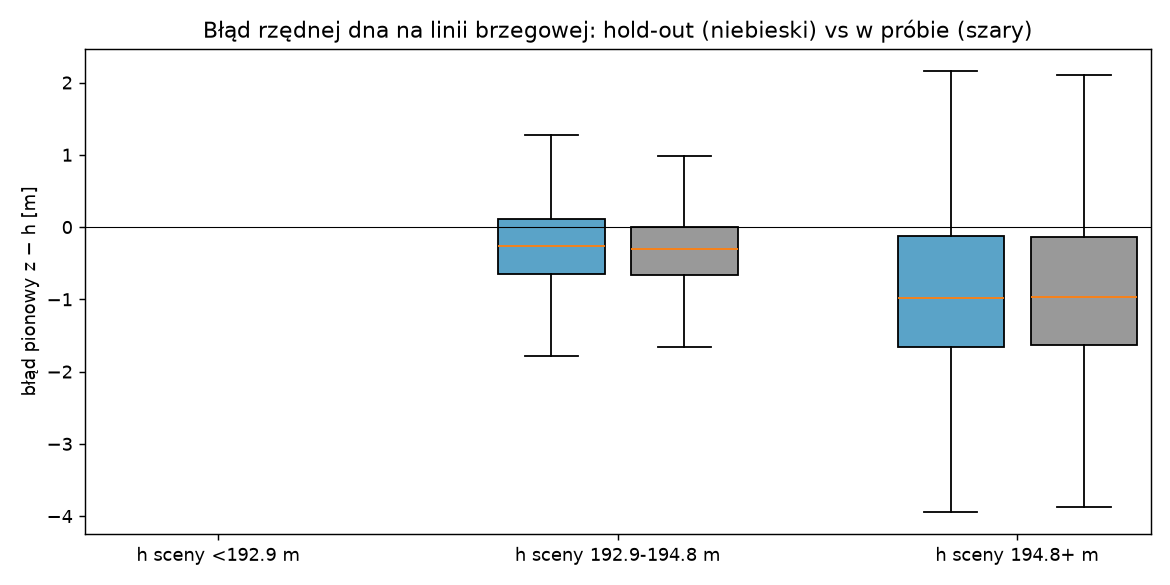
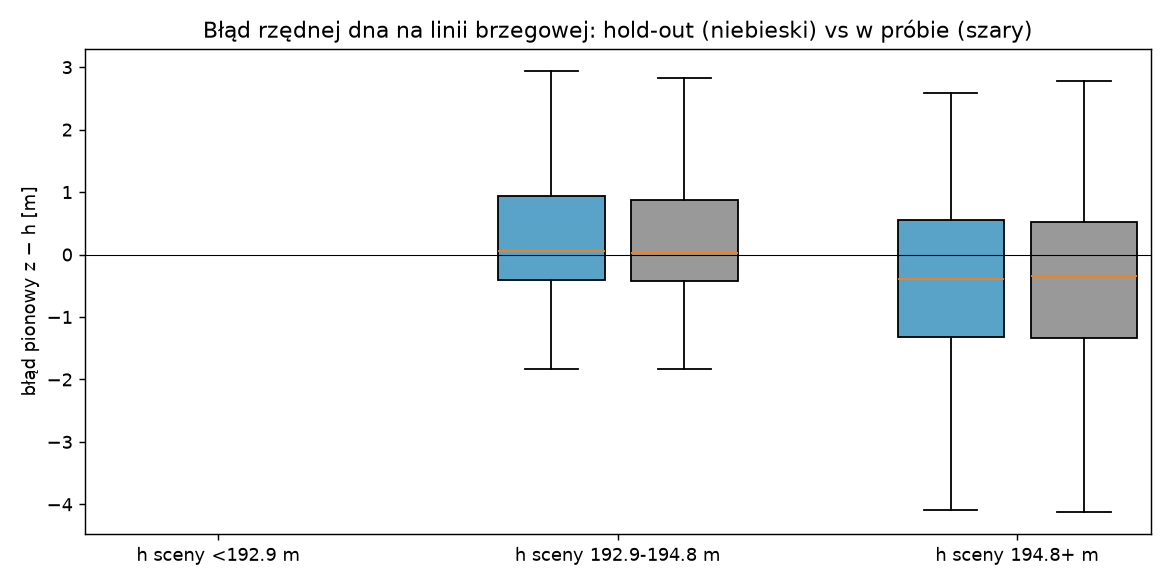
eval: two-sided edge pixels for hold-out vertical error

diff --git a/JezioroNyskie/pipeline/12_holdout.py b/JezioroNyskie/pipeline/12_holdout.py
@@ -33,7 +33,9 @@ log = logging.getLogger("12")
 IMG = Path(__file__).resolve().parents[1] / "docs" / "img"
 PERIODS = {"2020-2023": (2020, 2023), "2024": (2024, 2024), "2025-2026": (2025, 2026)}
 METHOD = ("Roczny hold-out: dla każdego roku 2020-2026 model dna z scen pozostałych lat; test = sceny z poziomem z "
-          "pomiaru (B/R). Błąd pionowy = z − h na pikselach brzegowych sceny (4-sąsiedztwo lądu), IoU wody i odległość "
+          "pomiaru (B/R). Błąd pionowy = z − h na pikselach brzegowych sceny po obu stronach linii (woda z sąsiadem lądu "
+          "i ląd z sąsiadem wody; prawdziwe dno przecina h między nimi, jedna strona dawałaby obciążenie; strony osobno w "
+          "`vertical_by_side`), IoU wody i odległość "
           "linii brzegowych względem obserwacji RF∧Otsu. In-sample = serwowany model `all` na tych samych scenach.")
 LEAKAGE = ("RF i krzywa C (poziomy wariantu C) nie są trenowane od nowa na foldach: maski scen i poziomy treningowe "
            "pochodzą z potoku, który widział też scenę testową, więc hold-out jest optymistyczny w tym zakresie.")
@@ -46,13 +48,19 @@ def load_ev(sel, aoi):
     return bottom.combine_evidence(rf_s, ot_s)
 
 
-def scene_record(model, ev_i, h, zone, lake_zone, transform, shore):
-    """Metryki jednej sceny dla modelu `model` (fałdy albo serwowany)."""
-    ve = holdout.vertical_errors(model, shore, h)
+def scene_record(model, ev_i, h, zone, lake_zone, transform):
+    """Metryki jednej sceny dla modelu `model` (fałdy albo serwowany).
+
+    Błąd pionowy na pikselach brzegowych obu stron (woda i ląd); `err_water`/`err_land` to diagnostyka stron osobno.
+    """
+    ve = holdout.vertical_errors(model, holdout.shore_pixels(ev_i, "both"), h)
+    vw = holdout.vertical_errors(model, holdout.shore_pixels(ev_i, "water"), h)
+    vl = holdout.vertical_errors(model, holdout.shore_pixels(ev_i, "land"), h)
     pred, unc = holdout.predict_water(model, h)
     valid = zone & (ev_i != 255)
     sd = holdout.shoreline_distance(pred, ev_i, transform)
-    return {"n_shore": ve["n_shore"], "err": ve["err"], "in_bounds": ve["in_bounds"],
+    return {"side": {"water": vw, "land": vl},
+            "n_shore": ve["n_shore"], "err": ve["err"], "in_bounds": ve["in_bounds"],
             "iou_zone": holdout.iou(pred, ev_i, zone), "iou_lake": holdout.iou(pred, ev_i, lake_zone),
             "share_uncertain": float(unc[valid].mean()) if valid.any() else float("nan"),
             "shore_dist_median": sd["median"], "shore_dist_p90": sd["p90"]}
@@ -114,16 +122,26 @@ def main() -> int:
         res = bottom.compute_bounds(ev[f.train], h[f.train], sig[f.train], is_c=is_c[f.train], k_sigma=1.0)
         log.info("fold %d: train %d, test %d (%.0f s)", f.year, len(f.train), len(f.test), time.time() - t0)
         for i in f.test:
-            shore = holdout.shore_pixels(ev[i])
-            rec_h[i] = scene_record(res, ev[i], float(h[i]), zone, aoi, grid.transform, shore)
-            rec_s[i] = scene_record(served, ev[i], float(h[i]), zone, aoi, grid.transform, shore)
+            rec_h[i] = scene_record(res, ev[i], float(h[i]), zone, aoi, grid.transform)
+            rec_s[i] = scene_record(served, ev[i], float(h[i]), zone, aoi, grid.transform)
         del res
     test_idx = [i for i in range(n) if rec_h[i] is not None]
     rh, rs = [rec_h[i] for i in test_idx], [rec_s[i] for i in test_idx]
     ah, as_ = holdout.aggregate(rh), holdout.aggregate(rs)
 
-    def block(a):
-        return {k: a[k] for k in ("vertical", "iou_zone", "iou_lake", "share_uncertain", "shore_dist_m")}
+    def by_side(recs):
+        out = {}
+        for sd in ("water", "land"):
+            ok = [r["side"][sd] for r in recs]
+            err = np.concatenate([o["err"] for o in ok])
+            ib = np.concatenate([o["in_bounds"] for o in ok])
+            out[sd] = holdout.summarize(err, ib, int(sum(o["n_shore"] for o in ok)))
+        return out
+
+    def block(a, recs):
+        b = {k: a[k] for k in ("vertical", "iou_zone", "iou_lake", "share_uncertain", "shore_dist_m")}
+        b["vertical_by_side"] = by_side(recs)
+        return b
 
     yrs = year_of[test_idx]
     by_fold = {}
@@ -144,7 +162,7 @@ def main() -> int:
                       "in_sample_vertical": s["vertical"] if s["vertical"]["n"] else {"n": 0}}
 
     out = {"method": METHOD, "leakage_note": LEAKAGE, "n_folds": len(folds), "n_test_scenes": ah["n_test_scenes"],
-           "n_skipped": ah["n_skipped"], "holdout": block(ah), "in_sample": block(as_), "by_fold": by_fold,
+           "n_skipped": ah["n_skipped"], "holdout": block(ah, rh), "in_sample": block(as_, rs), "by_fold": by_fold,
            "by_period": by_period, "by_band": by_band}
     path = proc / "eval" / "holdout.json"
     path.parent.mkdir(parents=True, exist_ok=True)

diff --git a/JezioroNyskie/pipeline/mielizna/holdout.py b/JezioroNyskie/pipeline/mielizna/holdout.py
@@ -43,15 +43,27 @@ def year_folds(sel: pd.DataFrame, years=range(2020, 2027), test_methods=("B", "R
     return folds
 
 
-def shore_pixels(ev: np.ndarray) -> np.ndarray:
-    """Piksele wody (1) mające co najmniej jednego 4-sąsiada lądu (0); 255 nie jest lądem, skośni sąsiedzi się nie liczą."""
-    land = ev == 0
-    nb = np.zeros(ev.shape, bool)
-    nb[1:, :] |= land[:-1, :]
-    nb[:-1, :] |= land[1:, :]
-    nb[:, 1:] |= land[:, :-1]
-    nb[:, :-1] |= land[:, 1:]
-    return (ev == 1) & nb
+def shore_pixels(ev: np.ndarray, side: str = "both") -> np.ndarray:
+    """Piksele brzegowe: woda z 4-sąsiadem lądu (`water`), ląd z 4-sąsiadem wody (`land`) albo suma (`both`, domyślnie).
+
+    Dlaczego tak: prawdziwe dno przecina poziom h między tymi dwoma pikselami, więc sam piksel wody dowodzi tylko, że dno
+      < h (z leży poniżej h, błąd obciążony o pół odstępu poziomów). Zebranie obu stron daje referencję ≈ h średnio.
+    255 nie jest ani wodą, ani lądem; skośni sąsiedzi się nie liczą.
+    """
+    if side not in ("water", "land", "both"):
+        raise ValueError(f"side: {side!r}")
+
+    def near(target):
+        nb = np.zeros(ev.shape, bool)
+        nb[1:, :] |= target[:-1, :]
+        nb[:-1, :] |= target[1:, :]
+        nb[:, 1:] |= target[:, :-1]
+        nb[:, :-1] |= target[:, 1:]
+        return nb
+
+    water = (ev == 1) & near(ev == 0)
+    land = (ev == 0) & near(ev == 1)
+    return water if side == "water" else land if side == "land" else water | land
 
 
 def predict_water(model: dict, h: float) -> tuple[np.ndarray, np.ndarray]:

diff --git a/JezioroNyskie/pipeline/tests/test_holdout.py b/JezioroNyskie/pipeline/tests/test_holdout.py
@@ -24,7 +24,7 @@ def test_year_folds_split():
 
 def test_shore_pixels_4_neighbours():
     ev = np.array([[1, 1, 0], [1, 1, 255]], "uint8")
-    assert holdout.shore_pixels(ev).tolist() == [[False, True, False], [False, False, False]]
+    assert holdout.shore_pixels(ev, side="water").tolist() == [[False, True, False], [False, False, False]]
 
 
 def test_predict_water_rules():
@@ -111,3 +111,12 @@ def test_aggregate_nan_iou_excluded_and_all_empty():
     out = holdout.aggregate([_scene(0, [])])
     assert out["n_skipped"] == 1 and out["vertical"]["n"] == 0
     json.dumps(out, allow_nan=False)
+
+
+def test_shore_pixels_sides():
+    ev = np.array([[1, 1, 0], [1, 1, 255]], "uint8")
+    F, T = False, True
+    assert holdout.shore_pixels(ev, "water").tolist() == [[F, T, F], [F, F, F]]
+    assert holdout.shore_pixels(ev, "land").tolist() == [[F, F, T], [F, F, F]]
+    assert holdout.shore_pixels(ev, "both").tolist() == [[F, T, T], [F, F, F]]
+    assert holdout.shore_pixels(ev).tolist() == holdout.shore_pixels(ev, "both").tolist()
